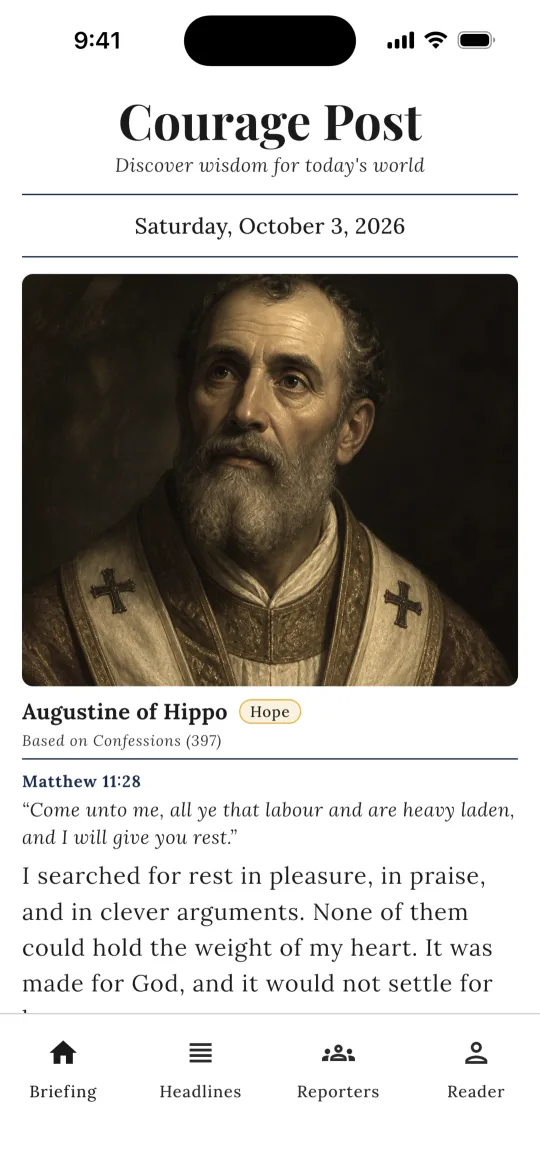
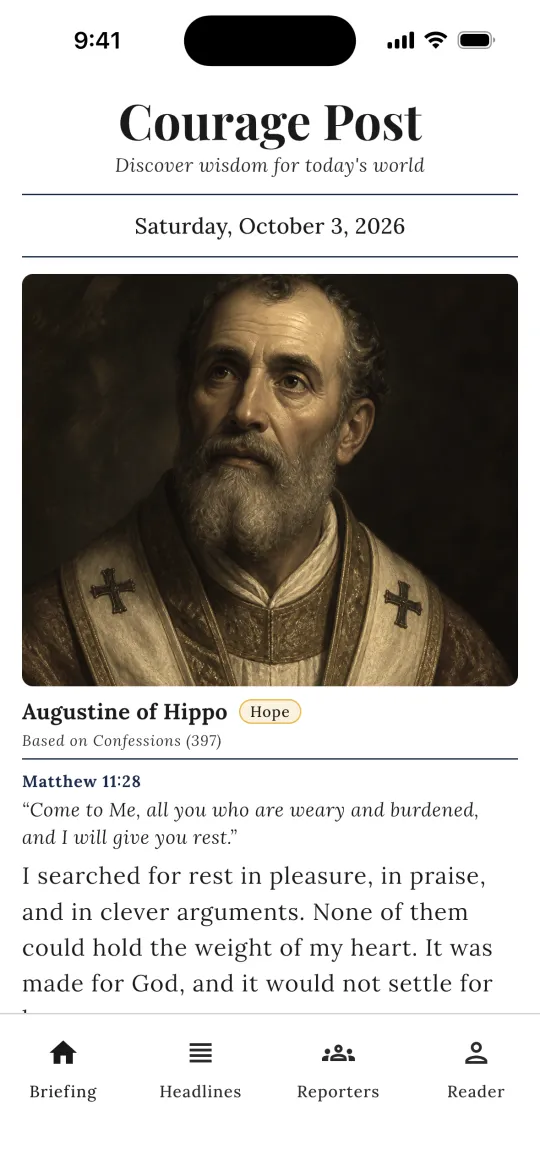
MS-818: Replace old-English quotes and KJV verses in the website screenshots with modern public-domain wording (#693)
* MS-818: Replace old-English quotes and KJV verses in the website screenshots with modern public-domain wording

The Briefing and Headline screenshots now show Matthew 11:28 and 6:34 in the
public-domain Berean Standard Bible. The Headline quote and the Reader memory
quote are now A.W. Tozer, The Pursuit of God (1948, copyright not renewed).
Augustine stays as the Briefing figure and the Reporters pick.

The Müller line named in the ticket could not be traced to his own writing,
so the memory quote uses another Pursuit of God line, as the AC allows.

* MS-818: Use George Müller's own wording for the Reader memory quote

The line is printed in Pierson's George Müller of Bristol (1899), Appendix N,
"The Wise Sayings of George Müller", drawn from Müller's Narrative and Reports.

---------

Changed region(s): [[0.1481, 0.6763, 0.9481, 0.7071]]

diff --git a/composeApp/src/commonMain/kotlin/com/mediasage/feature/headlinedetail/HeadlineDetailStateProvider.kt b/composeApp/src/commonMain/kotlin/com/mediasage/feature/headlinedetail/HeadlineDetailStateProvider.kt
@@ -6,17 +6,18 @@ import com.mediasage.ui.ErrorType
 internal class HeadlineDetailStateProvider : PreviewParameterProvider<HeadlineDetailContract.UiState> {
     override val values = sequenceOf(
         HeadlineDetailContract.UiState.Loading,
-        AugustineHeadlineState.copy(encouragement = HeadlineDetailContract.EncouragementState.Loading),
-        AugustineHeadlineState,
+        TozerHeadlineState.copy(encouragement = HeadlineDetailContract.EncouragementState.Loading),
+        TozerHeadlineState,
         HeadlineDetailContract.UiState.Error(errorType = ErrorType.NETWORK),
     )
 }
 
 /**
- * Headline paired with Augustine, used for the thecouragepost.app screenshots. No headline photo,
- * the quote is Confessions I.1 in Pusey's public-domain translation, and the scripture is KJV.
+ * Headline paired with Tozer, used for the thecouragepost.app screenshots. No headline photo,
+ * the quote is from The Pursuit of God (1948, copyright not renewed), and the scripture is the
+ * public-domain Berean Standard Bible.
  */
-internal val AugustineHeadlineState = HeadlineDetailContract.UiState.Success(
+internal val TozerHeadlineState = HeadlineDetailContract.UiState.Success(
     headlineTitle = "Why So Many Americans Have Trouble Spending Their Retirement Savings",
     headlineSource = "Barron's · Oct 3, 2026",
     headlineCategory = "Business",
@@ -24,15 +25,15 @@ internal val AugustineHeadlineState = HeadlineDetailContract.UiState.Success(
     encouragement = HeadlineDetailContract.EncouragementState.Loaded(
         summary = "Many Americans spend decades building a nest egg. Once they retire, " +
             "many find it hard to spend any of it.",
-        quoteText = "Thou madest us for Thyself, and our heart is restless, until it repose in Thee.",
-        figureName = "Augustine of Hippo",
-        figureRole = "Bishop & Church Father",
-        figureImageUrl = "https://sfocythzurfdpkegjlsl.supabase.co/storage/v1/object/public/portraits/36.webp",
+        quoteText = "The man who has God for his treasure has all things in One.",
+        figureName = "A.W. Tozer",
+        figureRole = "Pastor & Author",
+        figureImageUrl = "https://sfocythzurfdpkegjlsl.supabase.co/storage/v1/object/public/portraits/19.webp",
         scriptureReference = "Matthew 6:34",
-        scriptureText = "Take therefore no thought for the morrow: for the morrow shall take thought for the things " +
-            "of itself. Sufficient unto the day is the evil thereof.",
-        matchExplanation = "Saving for the future is wise. Yet even a full account cannot quiet the fear of not " +
-            "having enough. Augustine knew that restlessness well. He found that only God could give the rest he sought.",
+        scriptureText = "Therefore do not worry about tomorrow, for tomorrow will worry about itself. " +
+            "Today has enough trouble of its own.",
+        matchExplanation = "Saving for the future is wise. Yet even a full account cannot quiet the fear of running " +
+            "short. Tozer saw that things make a poor treasure. When God is your treasure, you already have enough.",
         matchTheme = "Faith",
         tone = "Encouraging",
     ),

diff --git a/composeApp/src/commonMain/kotlin/com/mediasage/feature/briefing/BriefingUiStateProvider.kt b/composeApp/src/commonMain/kotlin/com/mediasage/feature/briefing/BriefingUiStateProvider.kt
@@ -37,8 +37,8 @@ internal class BriefingUiStateProvider : PreviewParameterProvider<BriefingContra
 }
 
 /**
- * Augustine briefing used for the thecouragepost.app screenshots. The scripture is KJV and the only
- * work cited is Confessions, so everything quoted here is public domain.
+ * Augustine briefing used for the thecouragepost.app screenshots. The scripture is the public-domain
+ * Berean Standard Bible and the only work cited is Confessions, so everything quoted here is public domain.
  */
 internal val AugustineBriefingState = BriefingContract.UiState.Success(
     todayLabel = "Saturday, October 3, 2026",
@@ -47,7 +47,7 @@ internal val AugustineBriefingState = BriefingContract.UiState.Success(
         figureName = "Augustine of Hippo",
         figureImageUrl = "https://sfocythzurfdpkegjlsl.supabase.co/storage/v1/object/public/portraits/36.webp",
         scriptureReference = "Matthew 11:28",
-        scriptureText = "Come unto me, all ye that labour and are heavy laden, and I will give you rest.",
+        scriptureText = "Come to Me, all you who are weary and burdened, and I will give you rest.",
         insight = "I searched for rest in pleasure, in praise, and in clever arguments. " +
             "None of them could hold the weight of my heart. It was made for God, and it would not settle for less.",
         implication = "Your restlessness today is not a failure. It is a signpost. Let it turn you toward the One who made you.",

diff --git a/composeApp/src/commonMain/kotlin/com/mediasage/feature/you/ReaderStateProvider.kt b/composeApp/src/commonMain/kotlin/com/mediasage/feature/you/ReaderStateProvider.kt
@@ -15,8 +15,8 @@ private const val TODAY_EPOCH_DAY = 20729L
 
 /**
  * Reader tab used for the thecouragepost.app screenshots. The week's roster mixes eras with
- * Augustine today, the memory quote is Confessions I.1 in Pusey's public-domain
- * translation, and the past-briefing lines are written for this sample, not quoted.
+ * Augustine today, the memory quote is Müller as printed in Pierson's George Müller of Bristol
+ * (1899), Appendix N, and the past-briefing lines are written for this sample, not quoted.
  */
 internal val AugustineReaderState = ReaderContract.UiState.Ready(
     weekSlots = listOf(
@@ -29,10 +29,10 @@ internal val AugustineReaderState = ReaderContract.UiState.Ready(
         rosterSlot(DayOfWeek.SUNDAY, 3L, "Dietrich Bonhoeffer", LensFilter.NEWS),
     ),
     quoteCard = ReaderContract.QuoteCard(
-        quoteText = "Thou madest us for Thyself, and our heart is restless, until it repose in Thee.",
-        figureName = "Augustine of Hippo",
-        figureRole = "Bishop & Church Father",
-        figureImageUrl = "$PORTRAITS/36.webp",
+        quoteText = "Where Faith begins, anxiety ends; Where anxiety begins, Faith ends.",
+        figureName = "George Müller",
+        figureRole = "Evangelist & Orphan Care Pioneer",
+        figureImageUrl = "$PORTRAITS/91.webp",
     ),
     pastBriefings = listOf(
         pastBriefing(

diff --git a/website/public/index.html b/website/public/index.html
@@ -35,7 +35,7 @@
         <img class="phone" src="/images/headline-540.webp"
              srcset="/images/headline-540.webp 540w, /images/headline-1080.webp 1080w"
              sizes="(min-width: 760px) 300px, 80vw" width="540" height="1015" loading="lazy"
-             alt="A headline about retirement savings paired with a quote from Augustine's Confessions">
+             alt="A headline about retirement savings paired with a quote from A.W. Tozer's The Pursuit of God">
         <figcaption>Headlines paired with a sourced quote.</figcaption>
       </figure>
     </li>
@@ -53,7 +53,7 @@
         <img class="phone" src="/images/reader-540.webp"
              srcset="/images/reader-540.webp 540w, /images/reader-1080.webp 1080w"
              sizes="(min-width: 760px) 300px, 80vw" width="540" height="1015" loading="lazy"
-             alt="The Reader tab with a week of reporters including Harriet Tubman, a memory quote from Augustine and past briefings">
+             alt="The Reader tab with a week of reporters including Harriet Tubman, a memory quote from George Müller and past briefings">
         <figcaption>Your week of reporters and the quotes you keep.</figcaption>
       </figure>
     </li>

diff --git a/CLAUDE.md b/CLAUDE.md
@@ -181,7 +181,7 @@ cd website && npx wrangler dev
 
 - **Source:** HTML in `website/public/`. `/terms` serves `terms.html`, `/privacy` serves `privacy.html`. The app's About screen links to these URLs, so don't rename the files.
 - **Look:** every page links `website/public/styles.css`, which holds the whole site's colors and fonts as CSS variables. They mirror the app's default Classic light theme (`theme/Color.kt`, `Theme.kt`, `Type.kt`). Change a color or font there, never inline in a page. `fonts/` holds the app's Playfair Display and Lora as WOFF2 (SIL OFL, license in `fonts/OFL.txt`).
-- **Screenshots:** `website/public/images/` are captured from the real screen composables fed curated preview state (`AugustineBriefingState`, `AugustineHeadlineState`, `AugustineFiguresState`, `AugustineReaderState` in the screens' `*StateProvider.kt` files), so every visible quote, portrait and headline is ours to publish. Every quote must be from a US public-domain work, in a public-domain translation, and no publisher news photo may appear.
+- **Screenshots:** `website/public/images/` are captured from the real screen composables fed curated preview state (`AugustineBriefingState`, `TozerHeadlineState`, `AugustineFiguresState`, `AugustineReaderState` in the screens' `*StateProvider.kt` files), so every visible quote, portrait and headline is ours to publish. Every quote must be from a US public-domain work, in a public-domain translation, and no publisher news photo may appear.
 - **Routing:** `website/wrangler.jsonc` routes every path on `thecouragepost.app` to the Cloudflare Worker `couragepost-legal-pages`. Unknown paths get `404.html` with a 404 status.
 - **Deploy:** Cloudflare Workers Builds (Git integration, configured in the Cloudflare dashboard under the Worker's Settings → Builds) deploys on every merge to `main` that touches `website/**`. There is no GitHub Actions workflow for it. Build logs are in the Cloudflare dashboard.
 - **www:** a Cloudflare Redirect Rule (dashboard → Rules) 301-redirects `www.thecouragepost.app` to the apex. It isn't in the repo.
